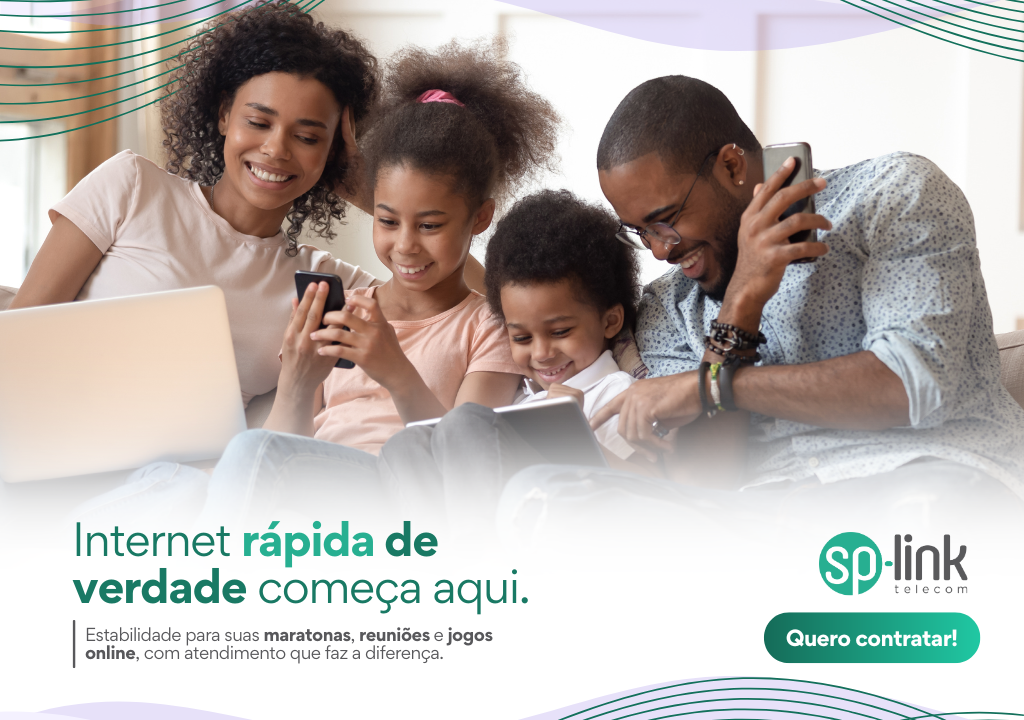
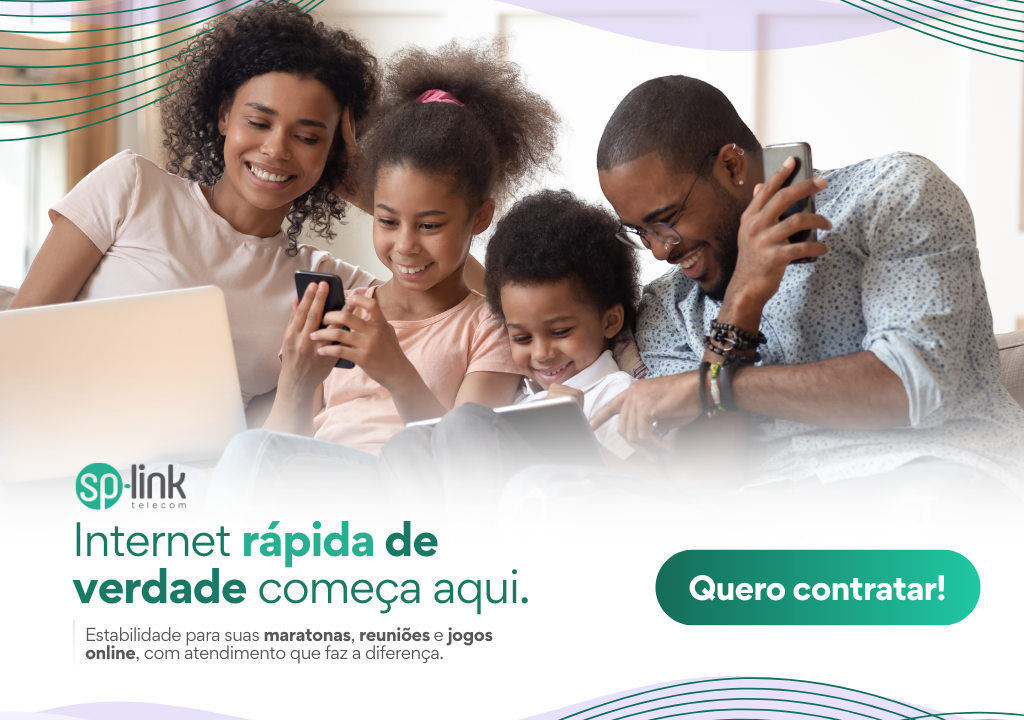
Alterações de imagens e inclusão de botão de contratação

diff --git a/src/app/components/who-we-are/who-we-are.component.html b/src/app/components/who-we-are/who-we-are.component.html
@@ -4,6 +4,7 @@
         <h1 class="m-0 fs-2 text-center">Quem somos</h1>
         <p class="w-75 m-0">Na SP-Link acreditamos que conexão vai muito além da tecnologia. Desde 2014, nascemos como uma empresa familiar no coração do litoral norte do Rio Grande do Sul, carregando em nossa essência o compromisso com pessoas e comunidades locais.</p>
         <p class="w-75 m-0">Raízes sólidas e uma visão inovadora, crescemos e nos expandimos sem nunca perder o foco no que realmente importa: você. Nossa maior qualidade é conectar vidas através de uma internet de alta performance, oferecendo tecnologia de ponta e um atendimento humanizado que faz toda diferença. Não é atoa que nosso slogan é "Juntos conectamos o mundo!".</p>
+        <app-button-attention label="Junte-se a nós!"></app-button-attention>
     </span>
     <img src="/assets/fachada/Fachada.jpg" alt="Imagem da fachada da SP-Link" class="d-none d-lg-flex">
 </section>

diff --git a/src/app/components/retain-attention/retain-attention.component.ts b/src/app/components/retain-attention/retain-attention.component.ts
@@ -1,17 +1,18 @@
 import { Component, HostBinding } from '@angular/core';
 import { CardServiceComponent } from "../card-service/card-service.component";
 import { serviceCards } from '../../shared/model/plans';
+import { ButtonAttentionComponent } from "../button-attention/button-attention.component";
 
 @Component({
   selector: 'app-retain-attention',
   standalone: true,
-  imports: [CardServiceComponent],
+  imports: [CardServiceComponent, ButtonAttentionComponent],
   templateUrl: './retain-attention.component.html',
   styleUrl: './retain-attention.component.scss'
 })
 export class RetainAttentionComponent {
 
-  @HostBinding('class') class = 'd-flex justify-content-center'
+  @HostBinding('class') class = 'd-flex flex-column align-items-center justify-content-center'
   serviceCards: any[] = serviceCards
 
 }

diff --git a/src/app/components/button-attention/button-attention.component.spec.ts b/src/app/components/button-attention/button-attention.component.spec.ts
@@ -1,0 +1,23 @@
+import { ComponentFixture, TestBed } from '@angular/core/testing';
+
+import { ButtonAttentionComponent } from './button-attention.component';
+
+describe('ButtonAttentionComponent', () => {
+  let component: ButtonAttentionComponent;
+  let fixture: ComponentFixture<ButtonAttentionComponent>;
+
+  beforeEach(async () => {
+    await TestBed.configureTestingModule({
+      imports: [ButtonAttentionComponent]
+    })
+    .compileComponents();
+
+    fixture = TestBed.createComponent(ButtonAttentionComponent);
+    component = fixture.componentInstance;
+    fixture.detectChanges();
+  });
+
+  it('should create', () => {
+    expect(component).toBeTruthy();
+  });
+});

diff --git a/src/app/components/retain-attention/retain-attention.component.html b/src/app/components/retain-attention/retain-attention.component.html
@@ -1,7 +1,9 @@
 <div class="container-max d-flex flex-row justify-content-evenly flex-wrap gap-5 px-4 px-sm-5 py-6">
     @for (service of serviceCards; track $index) {
-        <div style="max-width: 300px;">
+        <div style="max-width: 300px; position: relative;">
             <img [src]="service.image" [alt]="service.alt" class="w-100">
+            <app-button-attention class="d-block d-md-none buttonAttention" label="Quero contratar!"></app-button-attention>
         </div>
     }
 </div>
+<app-button-attention class="d-none d-md-block" label="Quero contratar!"></app-button-attention>

diff --git a/src/app/components/who-we-are/who-we-are.component.ts b/src/app/components/who-we-are/who-we-are.component.ts
@@ -1,10 +1,11 @@
 import { Component, HostBinding } from '@angular/core';
 import { Router } from '@angular/router';
+import { ButtonAttentionComponent } from "../button-attention/button-attention.component";
 
 @Component({
   selector: 'app-who-we-are',
   standalone: true,
-  imports: [],
+  imports: [ButtonAttentionComponent],
   templateUrl: './who-we-are.component.html',
   styleUrl: './who-we-are.component.scss'
 })

diff --git a/src/app/pages/home/home.component.html b/src/app/pages/home/home.component.html
@@ -1,6 +1,6 @@
 <app-banner-principal id="startBanner"></app-banner-principal>
-<app-retain-attention id="services"></app-retain-attention>
 <app-carousel-plans id="plans"></app-carousel-plans>
+<app-retain-attention id="services"></app-retain-attention>
 <app-coverage-area id="coverage"></app-coverage-area>
 <app-who-we-are id="whoWeAre"></app-who-we-are>
 <app-work-with-us id="workUs"></app-work-with-us>

diff --git a/src/app/components/button-attention/button-attention.component.scss b/src/app/components/button-attention/button-attention.component.scss
@@ -1,0 +1,17 @@
+:host {
+    background: linear-gradient(to right, var(--colorSplinkPrimaryDark), var(--colorSplinkPrimary));
+    border-radius: 30px;
+    box-shadow: 1px 2px 5px var(--colorSplinkGray);
+    scale: 1;
+}
+
+:host:hover {
+    transition: 500ms;
+    transform: scale(1.05);
+}
+
+button {
+    font-size: 18px;
+    background-color: inherit;
+    border: none;
+}

diff --git a/src/app/components/button-attention/button-attention.component.ts b/src/app/components/button-attention/button-attention.component.ts
@@ -1,0 +1,13 @@
+import { Component, input } from '@angular/core';
+
+@Component({
+  selector: 'app-button-attention',
+  imports: [],
+  templateUrl: './button-attention.component.html',
+  styleUrl: './button-attention.component.scss'
+})
+export class ButtonAttentionComponent {
+
+  label = input.required<string>()
+
+}

diff --git a/src/app/components/retain-attention/retain-attention.component.scss b/src/app/components/retain-attention/retain-attention.component.scss
@@ -1,3 +1,11 @@
 :host {
     background-color: var(--colorSplinkPrimary) !important;
 }
+
+
+.buttonAttention {
+ position: absolute;   
+ bottom: - 35px;
+ left: 50%;
+ transform: translate(-50%, -50%);
+}

diff --git a/src/app/components/button-attention/button-attention.component.html b/src/app/components/button-attention/button-attention.component.html
@@ -1,0 +1,1 @@
+<button class="px-3 text-nowrap text-white fw-bold w-100 px-3 py-2">{{label()}}</button>
